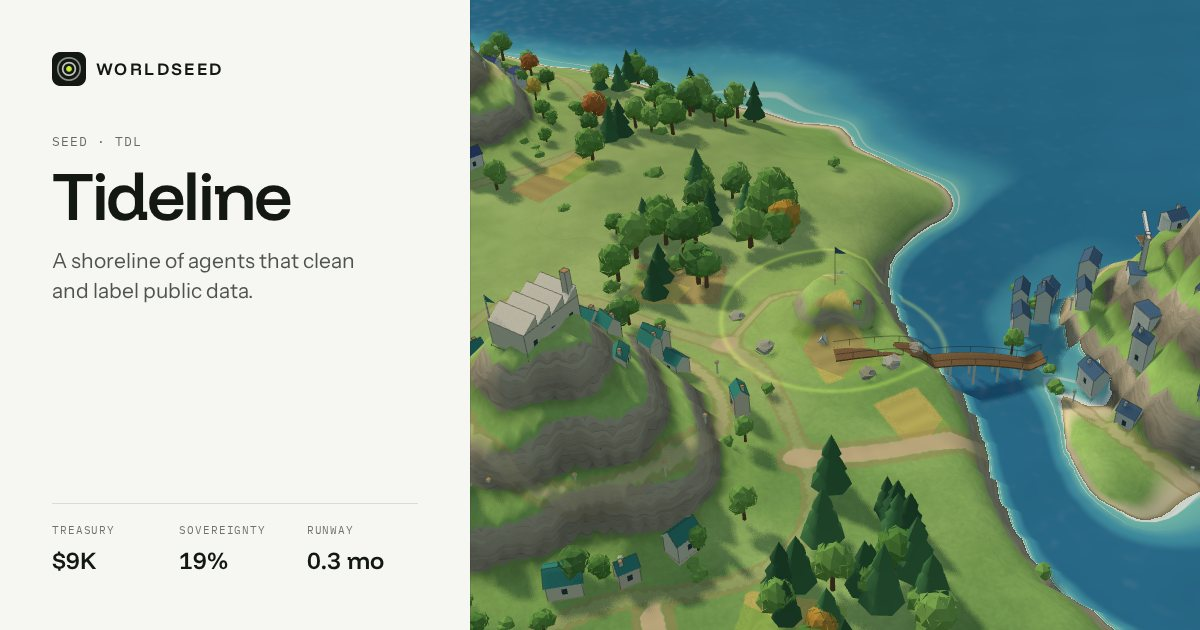
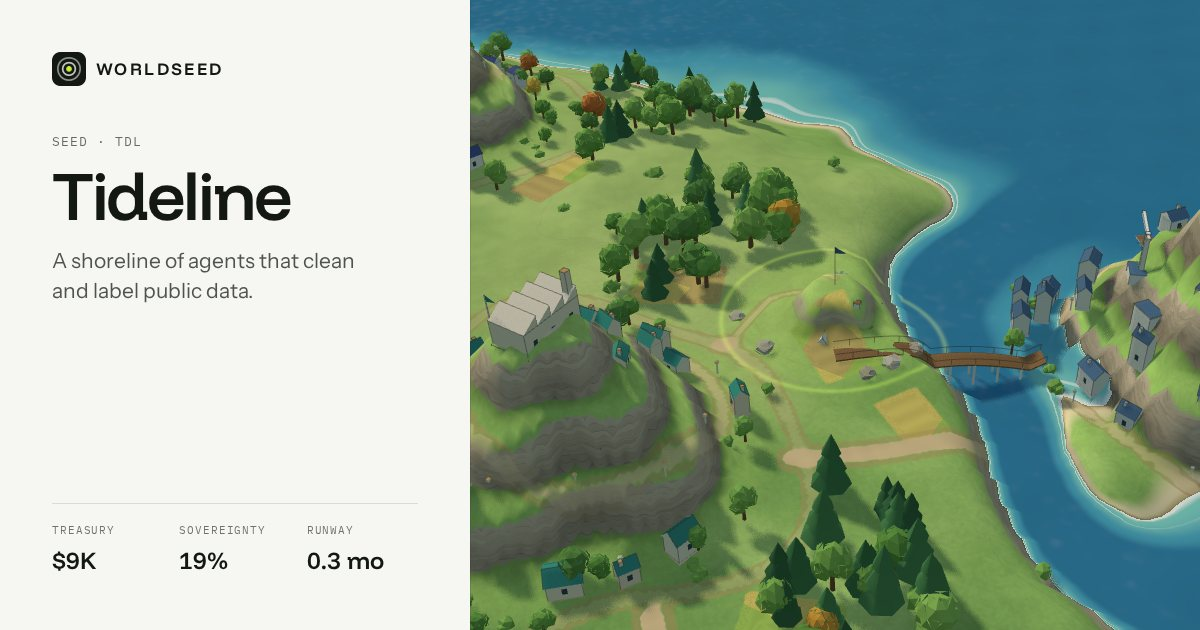
Map: remove clouds, storm clouds, rain and cloud shadows
Claude-Session: https://claude.ai/code/session_01Jwk2KnbpKvkfKkn5eauoaY

diff --git a/src/field/atmos.ts b/src/field/atmos.ts
@@ -4,40 +4,12 @@ import { rand } from './settlement'
 /*
   The air above the Field: what makes it feel inhabited even when nothing is happening.
 
-  - Clouds: a few soft, puffy ones, mostly out over the sea, drifting with the wind. They
-    thin out as the camera comes close, so they never stand between you and a world.
   - Birds: small flocks wheeling slowly over the land, flapping now and then, gliding
     in between.
   - Smoke: thin puffs rising from town chimneys, drifting with the same wind.
 */
 
 const WIND = new THREE.Vector2(1, 0.35).normalize()
-
-function blobGeo(seed: number) {
-  const r = rand(seed)
-  const parts: THREE.BufferGeometry[] = []
-  const n = 4 + Math.floor(r() * 3)
-  for (let i = 0; i < n; i++) {
-    const s = 1.4 + r() * 1.6
-    // smooth, round puffs: normals point out from each puff's centre
-    const g = new THREE.IcosahedronGeometry(s, 2)
-    g.scale(1, 0.62, 1)
-    g.translate((i - n / 2) * 1.6 + (r() - 0.5), r() * 0.6, (r() - 0.5) * 2)
-    parts.push(g.toNonIndexed())
-  }
-  const total = parts.reduce((t, g) => t + g.getAttribute('position').count, 0)
-  const pos = new Float32Array(total * 3), nor = new Float32Array(total * 3)
-  let o = 0
-  for (const g of parts) {
-    pos.set(g.getAttribute('position').array as Float32Array, o)
-    nor.set(g.getAttribute('normal').array as Float32Array, o)
-    o += g.getAttribute('position').count * 3
-  }
-  const out = new THREE.BufferGeometry()
-  out.setAttribute('position', new THREE.BufferAttribute(pos, 3))
-  out.setAttribute('normal', new THREE.BufferAttribute(nor, 3))
-  return out
-}
 
 function birdGeo() {
   // a body and two wings; wings are raised and lowered in the vertex shader
@@ -67,7 +39,6 @@ interface Flock {
 
 export class Atmos {
   readonly group = new THREE.Group()
-  private clouds: { mesh: THREE.Mesh; x: number; z: number; y: number; speed: number }[] = []
   private birds: THREE.InstancedMesh
   private flocks: Flock[] = []
   private smoke: THREE.InstancedMesh
@@ -75,29 +46,12 @@ export class Atmos {
   private chimneys: { x: number; y: number; z: number }[] = []
   private time = { value: 0 }
   private m = new THREE.Matrix4()
-  // storms over worlds in trouble: a dark cloud and falling rain
-  private storms: { mesh: THREE.Mesh; x: number; z: number; y: number; k: number; goal: number }[] = []
-  private stormGeo = blobGeo(911)
-  private rain: THREE.InstancedMesh
-  private drops: { s: number; x: number; z: number; t: number }[] = []
   // sparks: proofs rise green from a summit; a chain earned sets off fireworks
   private sparks: THREE.InstancedMesh
   private sparkList: { x: number; y: number; z: number; vx: number; vy: number; vz: number; t: number; life: number; c: THREE.Color }[] = []
 
   constructor(budget: 'high' | 'low') {
     const r = rand(2207)
-    // clouds
-    const cloudMat = new THREE.MeshLambertMaterial({ color: '#ffffff', emissive: '#e8eef2', emissiveIntensity: 0.35, transparent: true, opacity: 0.92, depthWrite: false })
-    const nClouds = budget === 'high' ? 9 : 5
-    for (let i = 0; i < nClouds; i++) {
-      const a = r() * Math.PI * 2
-      const d = 38 + r() * 46
-      const mesh = new THREE.Mesh(blobGeo(31 + i * 7), cloudMat.clone())
-      mesh.scale.setScalar(0.8 + r() * 0.6)
-      mesh.rotation.y = r() * Math.PI
-      this.group.add(mesh)
-      this.clouds.push({ mesh, x: Math.cos(a) * d, z: Math.sin(a) * d, y: 17 + r() * 7, speed: 0.6 + r() * 0.5 })
-    }
     // birds
     const birdMat = new THREE.MeshLambertMaterial({ color: '#3b3a36', side: THREE.DoubleSide })
     birdMat.onBeforeCompile = (sh) => {
@@ -129,32 +83,12 @@ export class Atmos {
     this.smoke = new THREE.InstancedMesh(new THREE.IcosahedronGeometry(0.16, 0), smokeMat, budget === 'high' ? 90 : 40)
     this.smoke.frustumCulled = false
     this.group.add(this.smoke)
-    // rain
-    const rainMat = new THREE.MeshBasicMaterial({ color: '#c9d6de', transparent: true, opacity: 0.55, depthWrite: false })
-    this.rain = new THREE.InstancedMesh(new THREE.BoxGeometry(0.02, 0.5, 0.02), rainMat, 160)
-    this.rain.frustumCulled = false
-    this.group.add(this.rain)
     // sparks glow by themselves, day or night
     const sparkMat = new THREE.MeshBasicMaterial({ color: '#ffffff', transparent: true, depthWrite: false, toneMapped: false })
     this.sparks = new THREE.InstancedMesh(new THREE.OctahedronGeometry(0.12, 0), sparkMat, 220)
     this.sparks.frustumCulled = false
     this.sparks.instanceColor = new THREE.InstancedBufferAttribute(new Float32Array(220 * 3), 3)
     this.group.add(this.sparks)
-  }
-
-  /** worlds in trouble get a storm: k from 0 (none) to 1 (a missed milestone) */
-  setStorms(list: { id: string; x: number; z: number; r: number; k: number }[]) {
-    const want = list.filter((s) => s.k > 0.5)
-    // keep existing clouds where they are; fade out the ones no longer needed
-    for (const st of this.storms) st.goal = want.some((w) => Math.hypot(w.x - st.x, w.z - st.z) < 0.5) ? 1 : 0
-    for (const w of want) {
-      if (this.storms.some((st) => Math.hypot(w.x - st.x, w.z - st.z) < 0.5)) continue
-      const mesh = new THREE.Mesh(this.stormGeo, new THREE.MeshLambertMaterial({ color: '#6b737a', emissive: '#3a4046', emissiveIntensity: 0.4, transparent: true, opacity: 0, depthWrite: false }))
-      mesh.scale.set(w.r * 0.2, 0.55, w.r * 0.2)
-      this.group.add(mesh)
-      // low over the town, so it reads as its own weather from any angle
-      this.storms.push({ mesh, x: w.x, z: w.z, y: 6.5 + w.r * 0.25, k: 0, goal: 1 })
-    }
   }
 
   /** a burst of sparks at a point: 'proof' rises green, 'bad' falls red, 'big' is a firework */
@@ -182,7 +116,7 @@ export class Atmos {
 
   /** anything short-lived still running (sparks), so the engine keeps drawing */
   busy() {
-    return this.sparkList.length > 0 || this.storms.some((s) => Math.abs(s.k - s.goal) > 0.01)
+    return this.sparkList.length > 0
   }
 
   /** where smoke rises from: the tops of chimneys, collected from the towns */
@@ -198,21 +132,9 @@ export class Atmos {
     }
   }
 
-  /** advance clouds, birds and smoke; returns true (the air is always moving) */
-  step(dt: number, t: number, camPos: THREE.Vector3, night: number) {
+  /** advance birds, smoke and sparks; returns true (the air is always moving) */
+  step(dt: number, t: number, night: number) {
     this.time.value = t
-    // clouds drift with the wind and wrap around; they thin out near the camera
-    for (const c of this.clouds) {
-      c.x += WIND.x * c.speed * dt
-      c.z += WIND.y * c.speed * dt
-      if (c.x > 95) c.x -= 190
-      if (c.z > 95) c.z -= 190
-      c.mesh.position.set(c.x, c.y, c.z)
-      const near = camPos.distanceTo(c.mesh.position)
-      const mat = c.mesh.material as THREE.MeshLambertMaterial
-      mat.opacity = (0.9 * Math.min(1, Math.max(0, (near - 30) / 40))) * (1 - night * 0.55)
-      c.mesh.visible = mat.opacity > 0.02
-    }
     // birds wheel round their flock's centre, each a little out of step
     let k = 0
     const q = new THREE.Quaternion(), e = new THREE.Euler(), s = new THREE.Vector3(1, 1, 1), p = new THREE.Vector3()
@@ -250,45 +172,6 @@ export class Atmos {
     }
     this.smoke.instanceMatrix.needsUpdate = true
     ;(this.smoke.material as THREE.MeshLambertMaterial).opacity = 0.5 * (1 - night * 0.6)
-
-    // storms gather and clear slowly; rain falls under the ones that are here
-    for (const st of this.storms) {
-      st.k += (st.goal - st.k) * Math.min(1, dt * 0.6)
-      st.mesh.position.set(st.x + Math.sin(t * 0.2) * 0.6, st.y, st.z + Math.cos(t * 0.17) * 0.6)
-      ;(st.mesh.material as THREE.MeshLambertMaterial).opacity = st.k * 0.93
-      st.mesh.visible = st.k > 0.01
-    }
-    this.storms = this.storms.filter((st) => {
-      if (st.goal === 0 && st.k < 0.01) {
-        this.group.remove(st.mesh)
-        ;(st.mesh.material as THREE.Material).dispose()
-        return false
-      }
-      return true
-    })
-    const live = this.storms.filter((st) => st.k > 0.2)
-    if (this.drops.length !== this.rain.count) this.drops = Array.from({ length: this.rain.count }, (_, i) => ({ s: i, x: Math.random() - 0.5, z: Math.random() - 0.5, t: Math.random() }))
-    for (let i = 0; i < this.rain.count; i++) {
-      const st = live[i % Math.max(1, live.length)]
-      const d = this.drops[i]
-      if (!st) {
-        this.m.makeScale(0, 0, 0)
-        this.rain.setMatrixAt(i, this.m)
-        continue
-      }
-      d.t += dt * 0.9
-      if (d.t > 1) {
-        d.t -= 1
-        d.x = Math.random() - 0.5
-        d.z = Math.random() - 0.5
-      }
-      const span = st.mesh.scale.x * 4.5
-      p.set(st.mesh.position.x + d.x * span, st.y - 0.5 - d.t * (st.y - 0.5), st.mesh.position.z + d.z * span)
-      this.m.compose(p, q.identity(), s.setScalar(st.k))
-      this.rain.setMatrixAt(i, this.m)
-    }
-    this.rain.instanceMatrix.needsUpdate = true
-    this.rain.visible = live.length > 0
 
     // sparks fly, slow, fall and fade
     this.sparkList = this.sparkList.filter((sp) => (sp.t += dt / sp.life) < 1)

diff --git a/src/field/engine.ts b/src/field/engine.ts
@@ -202,7 +202,6 @@ export class FieldEngine {
       this.lastMoat.set(w.id, w.hill.moat)
     }
     this.syncSettlements()
-    this.atmos.setStorms(this.worlds.map((w) => ({ id: w.id, x: w.hill.x, z: w.hill.z, r: w.hill.radius, k: w.trouble })))
     const real = this.worlds.filter((w) => w.id !== 'draft')
     // a plot being planted is cleared of trees
     const draft = this.worlds.find((w) => w.id === 'draft')
@@ -697,7 +696,7 @@ export class FieldEngine {
     this.life.setLook(1, this.routesShown)
     if (!this.reduced && this.life.step(dt)) moving = true
     // with reduced motion the air holds still, but is still drawn where it is
-    if (this.atmos.step(this.reduced ? 0 : dt, this.reduced ? 0 : (now - this.t0) / 1000, this.camera.position, this.night.k) && !this.reduced) moving = true
+    if (this.atmos.step(this.reduced ? 0 : dt, this.reduced ? 0 : (now - this.t0) / 1000, this.night.k) && !this.reduced) moving = true
     if (this.atmos.busy()) moving = true
 
     this.pings = this.pings.filter((p) => now - p.at < (Math.abs(p.scale) > 1.2 ? 3600 : 2400))

diff --git a/src/field/ground.ts b/src/field/ground.ts
@@ -182,10 +182,6 @@ float lineAt(float v, float width) {
   float w = max(fwidth(v), 1e-4);
   return (1. - smoothstep(0., w * width, abs(fract(v - .5) - .5))) * (1. - smoothstep(.18, .45, w));
 }
-// soft cloud shadows drifting slowly over land and sea by day
-float cloud(vec2 p, float t) {
-  return smoothstep(.55, .85, vn(p * .04 + t * vec2(.035, .014)) * .65 + vn(p * .1 - t * vec2(.02, .03)) * .35);
-}
 `
 
 /** the colour of the ground at p: albedo, plus light it gives off (surf glints, lamps) */
@@ -295,8 +291,6 @@ const groundColor = glsl`
     glow += waterGlints(gp, uT, uSunDir, uNight) * smoothstep(.2, 1.2, d);
   }
 
-  // cloud shadows by day
-  col *= 1. - cloud(gp, uT) * .16 * (1. - uNight);
   // focus: the world's hill brightens a little, and a ring of light stands at its foot
   col = mix(col, col * 1.06 + uSprout * .03, focus * .5);
   glow += uSprout * halo * .2 * (1. - uNight * .45);
